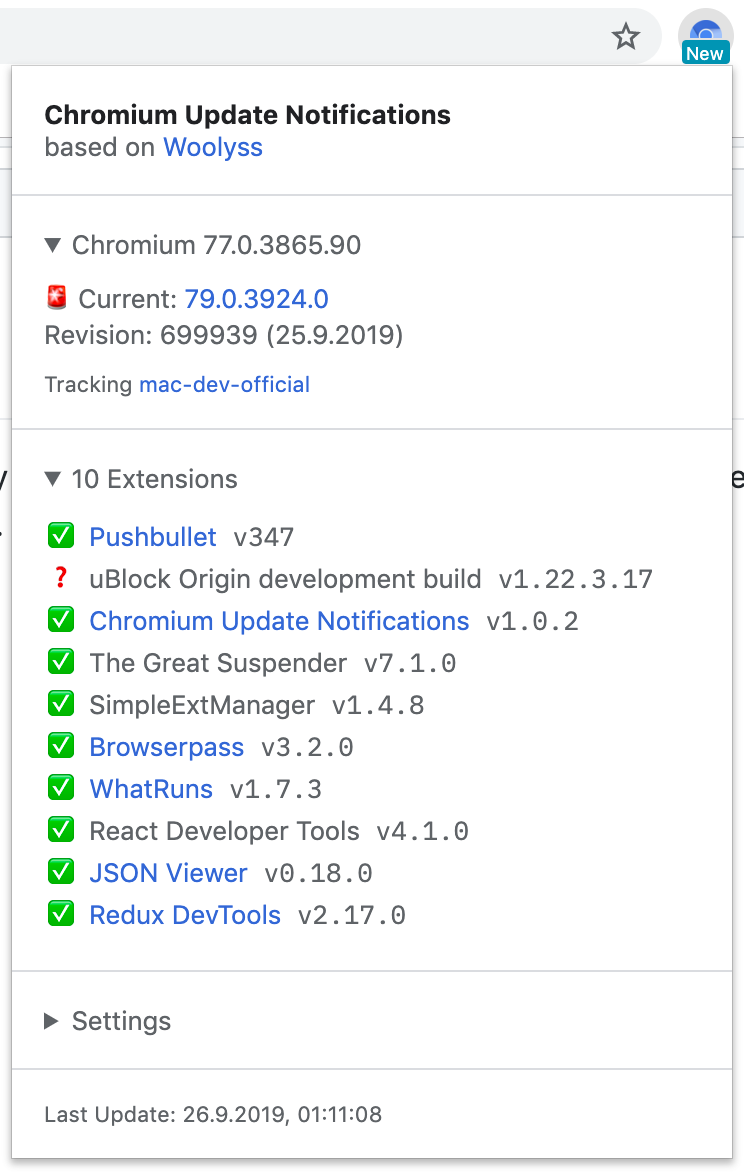
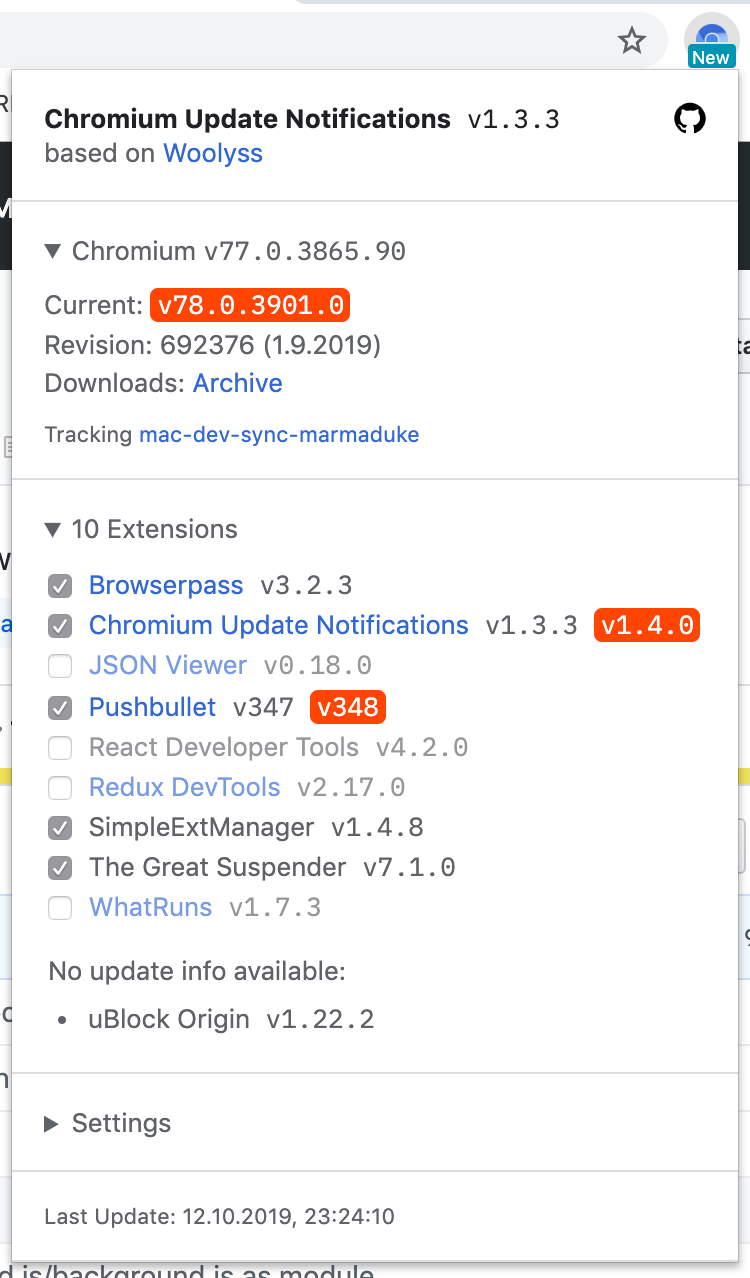
Update README

diff --git a/README.md b/README.md
@@ -4,6 +4,8 @@ This extension will periodically check [Woolyss' website](https://chromium.wooly
 
 As of version 1.1.0, tracking and 1-click-installing of updates for all installed extensions is also supported (those which support auto-updating). Just be aware that to make this work, a list of your installed extensions will need to be periodically transmitted to the [chromium-extension-service](https://github.com/kkkrist/chromium-extension-service).
 
+As of version 1.4.0, all installed extensions can be enabled/disabled via a checkbox next to it in the list. Quickly enable/disable extensions you rarely use to increase privacy and browser speed.
+
 <img height="586" src="https://raw.githubusercontent.com/kkkrist/chromium-notifier/master/img/screenshot.webp" width="372" />
 
 ## Installation
